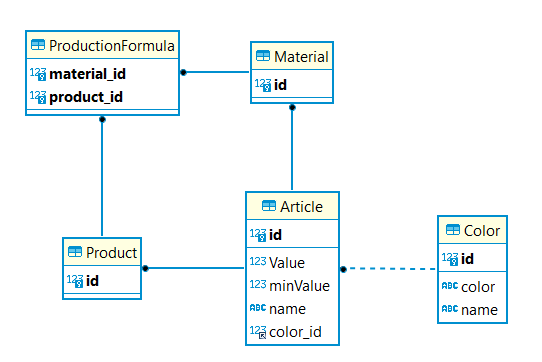
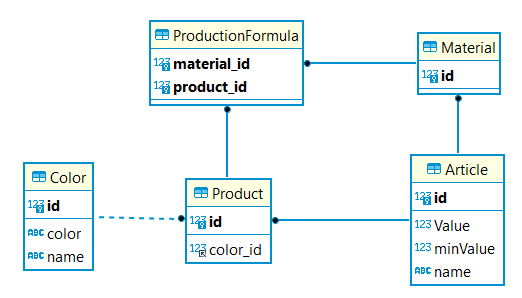
update database

Changed region(s): [[0.0307, 0.0604, 0.9808, 0.9664]]

diff --git a/MultiFlex/API/RestApi/src/main/java/at/multiflex/model/Wares/Product.java b/MultiFlex/API/RestApi/src/main/java/at/multiflex/model/Wares/Product.java
@@ -1,5 +1,6 @@
 package at.multiflex.model.Wares;
 
+import at.multiflex.model.Color;
 import lombok.AllArgsConstructor;
 import lombok.Getter;
 import lombok.NoArgsConstructor;
@@ -26,10 +27,17 @@ public class Product extends Article {
         //<editor-fold desc="Transient Fields">
     @Transient
     private List<Integer> material_ids = configurateMaterialIds();
+
+    @Transient
+    private Integer color_id = configurateColerId();
         //</editor-fold>
         //<editor-fold desc="Relation">
     @ManyToMany(mappedBy = "products")
     private Set<Material> materials = new HashSet<>();
+
+    @ManyToOne
+    @JoinColumn(name = "color_id", nullable = false)
+    private Color color;
         //</editor-fold>
         //<editor-fold desc="Transient Field configuration">
     private List<Integer> configurateMaterialIds(){
@@ -37,6 +45,13 @@ public class Product extends Article {
             return getMaterials().stream().map(x -> x.getId()).collect(Collectors.toList());
         }
         return new ArrayList<>();
+    }
+
+    private Integer configurateColerId(){
+        if (getColor() != null && getColor().getId() != null){
+            return getColor().getId();
+        }
+        return null;
     }
         //</editor-fold>
     //</editor-fold>

diff --git a/MultiFlex/API/RestApi/src/main/java/at/multiflex/model/Color.java b/MultiFlex/API/RestApi/src/main/java/at/multiflex/model/Color.java
@@ -1,6 +1,7 @@
 package at.multiflex.model;
 
 import at.multiflex.model.Wares.Article;
+import at.multiflex.model.Wares.Product;
 import lombok.AllArgsConstructor;
 import lombok.Getter;
 import lombok.NoArgsConstructor;
@@ -34,16 +35,16 @@ public class Color {
         //<editor-fold desc="Transient Fields">
     @Transient
     //private List<Integer> article_ids = configurateProductIds();
-    private List<Integer> article_ids = configurateProductIds();
+    private List<Integer> product_ids = configurateProductIds();
         //</editor-fold>
         //<editor-fold desc="Relation">
     @OneToMany(mappedBy = "color")
-    private Set<Article> articles = new HashSet<>();
+    private Set<Product> products = new HashSet<>();
         //</editor-fold>
         //<editor-fold desc="Transient Field configuration">
     private List<Integer> configurateProductIds(){
-        if (getArticles() != null){
-            return getArticles().stream().map(x -> x.getId()).collect(Collectors.toList());
+        if (getProducts() != null){
+            return getProducts().stream().map(x -> x.getId()).collect(Collectors.toList());
         }
         return new ArrayList<>();
     }

diff --git a/MultiFlex/API/RestApi/src/main/java/at/multiflex/model/Wares/Article.java b/MultiFlex/API/RestApi/src/main/java/at/multiflex/model/Wares/Article.java
@@ -32,23 +32,13 @@ public class Article {
     //</editor-fold>
     //<editor-fold desc="Navigation Help">
         //<editor-fold desc="Transient Fields">
-    @Transient
-    private Integer color_id = configurateColerId();
+
         //</editor-fold>
         //<editor-fold desc="Relation">
-    @ManyToOne
-    @JoinColumn(name = "color_id", nullable = false)
-    private Color color;
+
         //</editor-fold>
         //<editor-fold desc="Transient Field configuration">
-    private Integer configurateColerId(){
-        if (color != null){
-            if (color.getId() != null){
-                return getColor().getId();
-            }
-        }
-        return null;
-    }
+
         //</editor-fold>
     //</editor-fold>
 }

diff --git a/MultiFlex/API/RestApi/src/main/java/at/multiflex/dto/ColorDto.java b/MultiFlex/API/RestApi/src/main/java/at/multiflex/dto/ColorDto.java
@@ -22,6 +22,6 @@ public class ColorDto {
     private String color;
     //</editor-fold>
     //<editor-fold desc="Navigation Help">
-    private List<Integer> article_ids = new ArrayList<>();
+    private List<Integer> product_ids = new ArrayList<>();
     //</editor-fold>
 }

diff --git a/MultiFlex/API/RestApi/src/main/java/at/multiflex/dto/wares/ProductDto.java b/MultiFlex/API/RestApi/src/main/java/at/multiflex/dto/wares/ProductDto.java
@@ -14,5 +14,7 @@ import java.util.List;
 public class ProductDto extends ArticleDto {
     //<editor-fold desc="Navigation Help">
     private List<Integer> material_ids;
+
+    private Integer product_id;
     //</editor-fold>
 }

diff --git a/MultiFlex/API/RestApi/src/main/java/at/multiflex/dto/wares/ArticleDto.java b/MultiFlex/API/RestApi/src/main/java/at/multiflex/dto/wares/ArticleDto.java
@@ -20,6 +20,6 @@ public class ArticleDto {
     private Integer minValue;
     //</editor-fold>
     //<editor-fold desc="Navigation Help">
-    private Integer color_id;
+
     //</editor-fold>
 }
